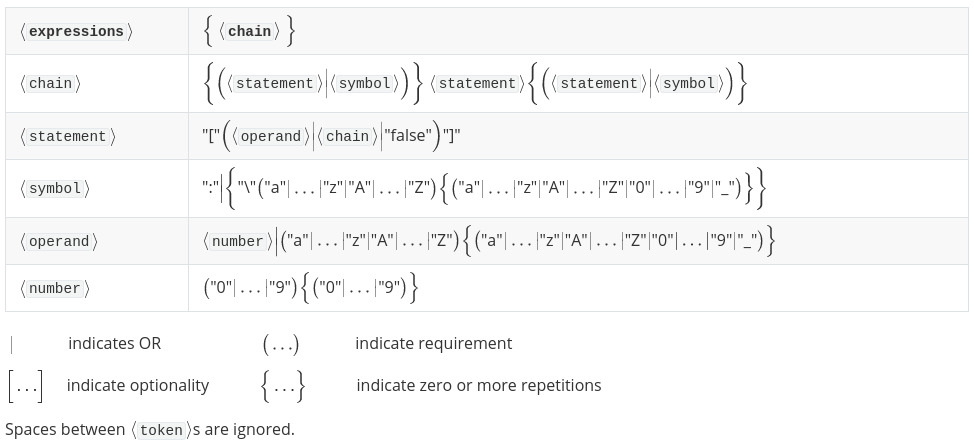
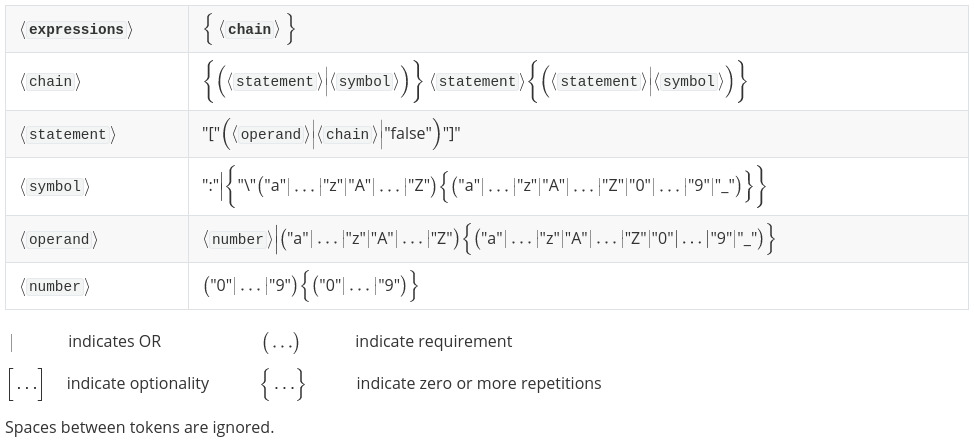
updated EBNF picture

diff --git a/doc/EBNF.md b/doc/EBNF.md
@@ -12,7 +12,7 @@
 
 $\Big[\dots\Big]$ 	indicate optionality			$\Big\{\dots\Big\}$			indicate zero or more repetitions
 
-Spaces between $\langle$`token`$\rangle$s are ignored.
+Spaces between tokens are ignored.
 
 ```mermaid
 sequenceDiagram
